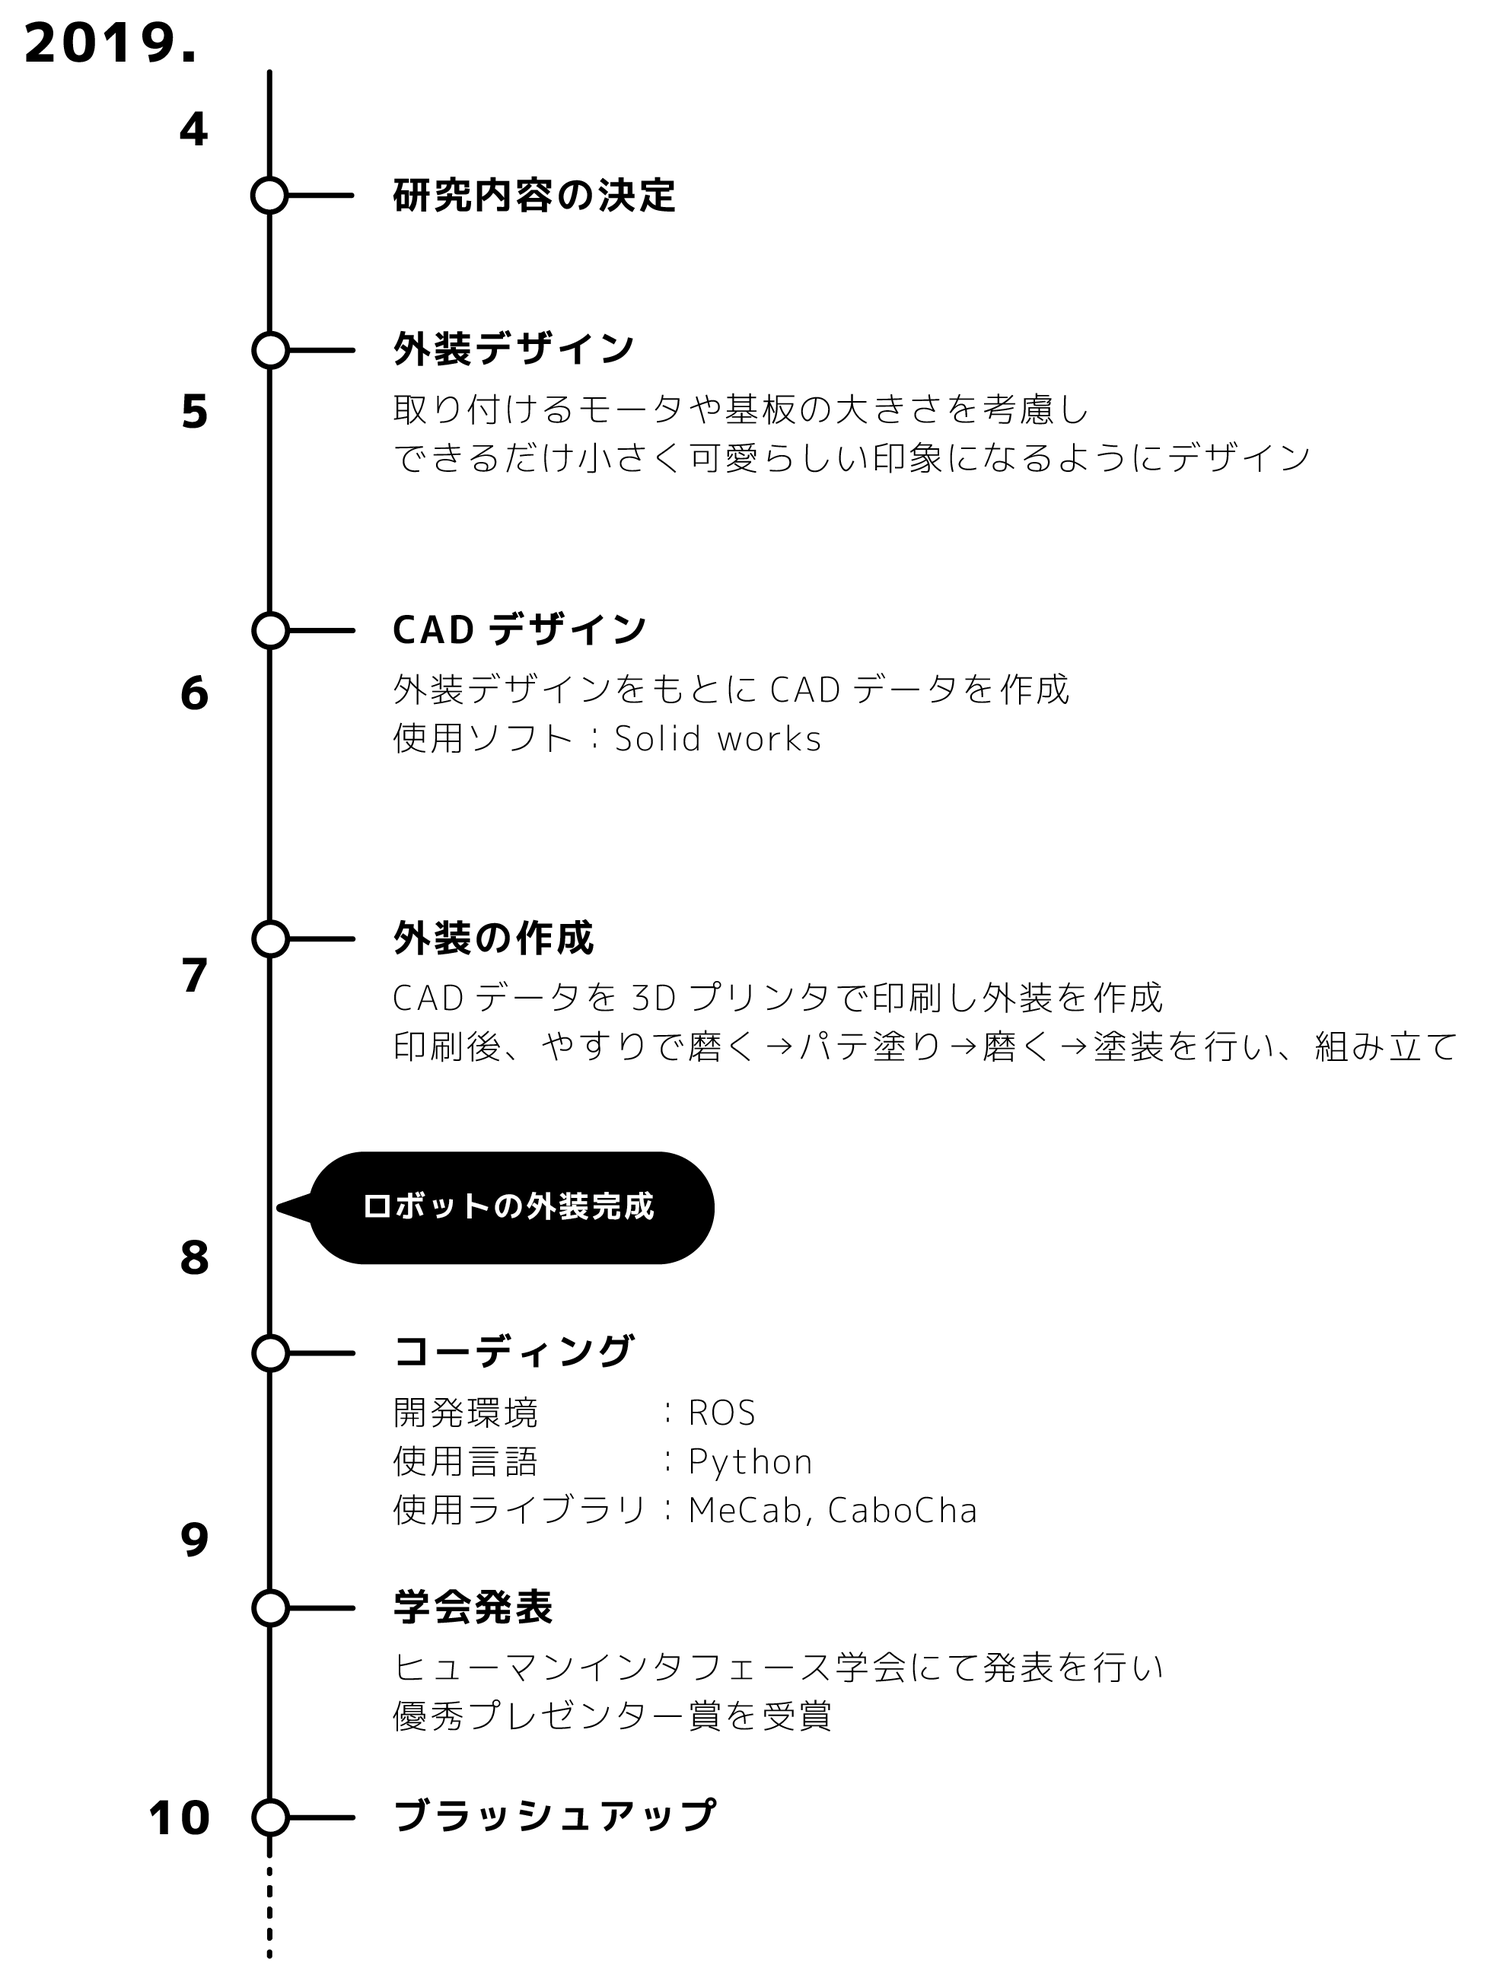
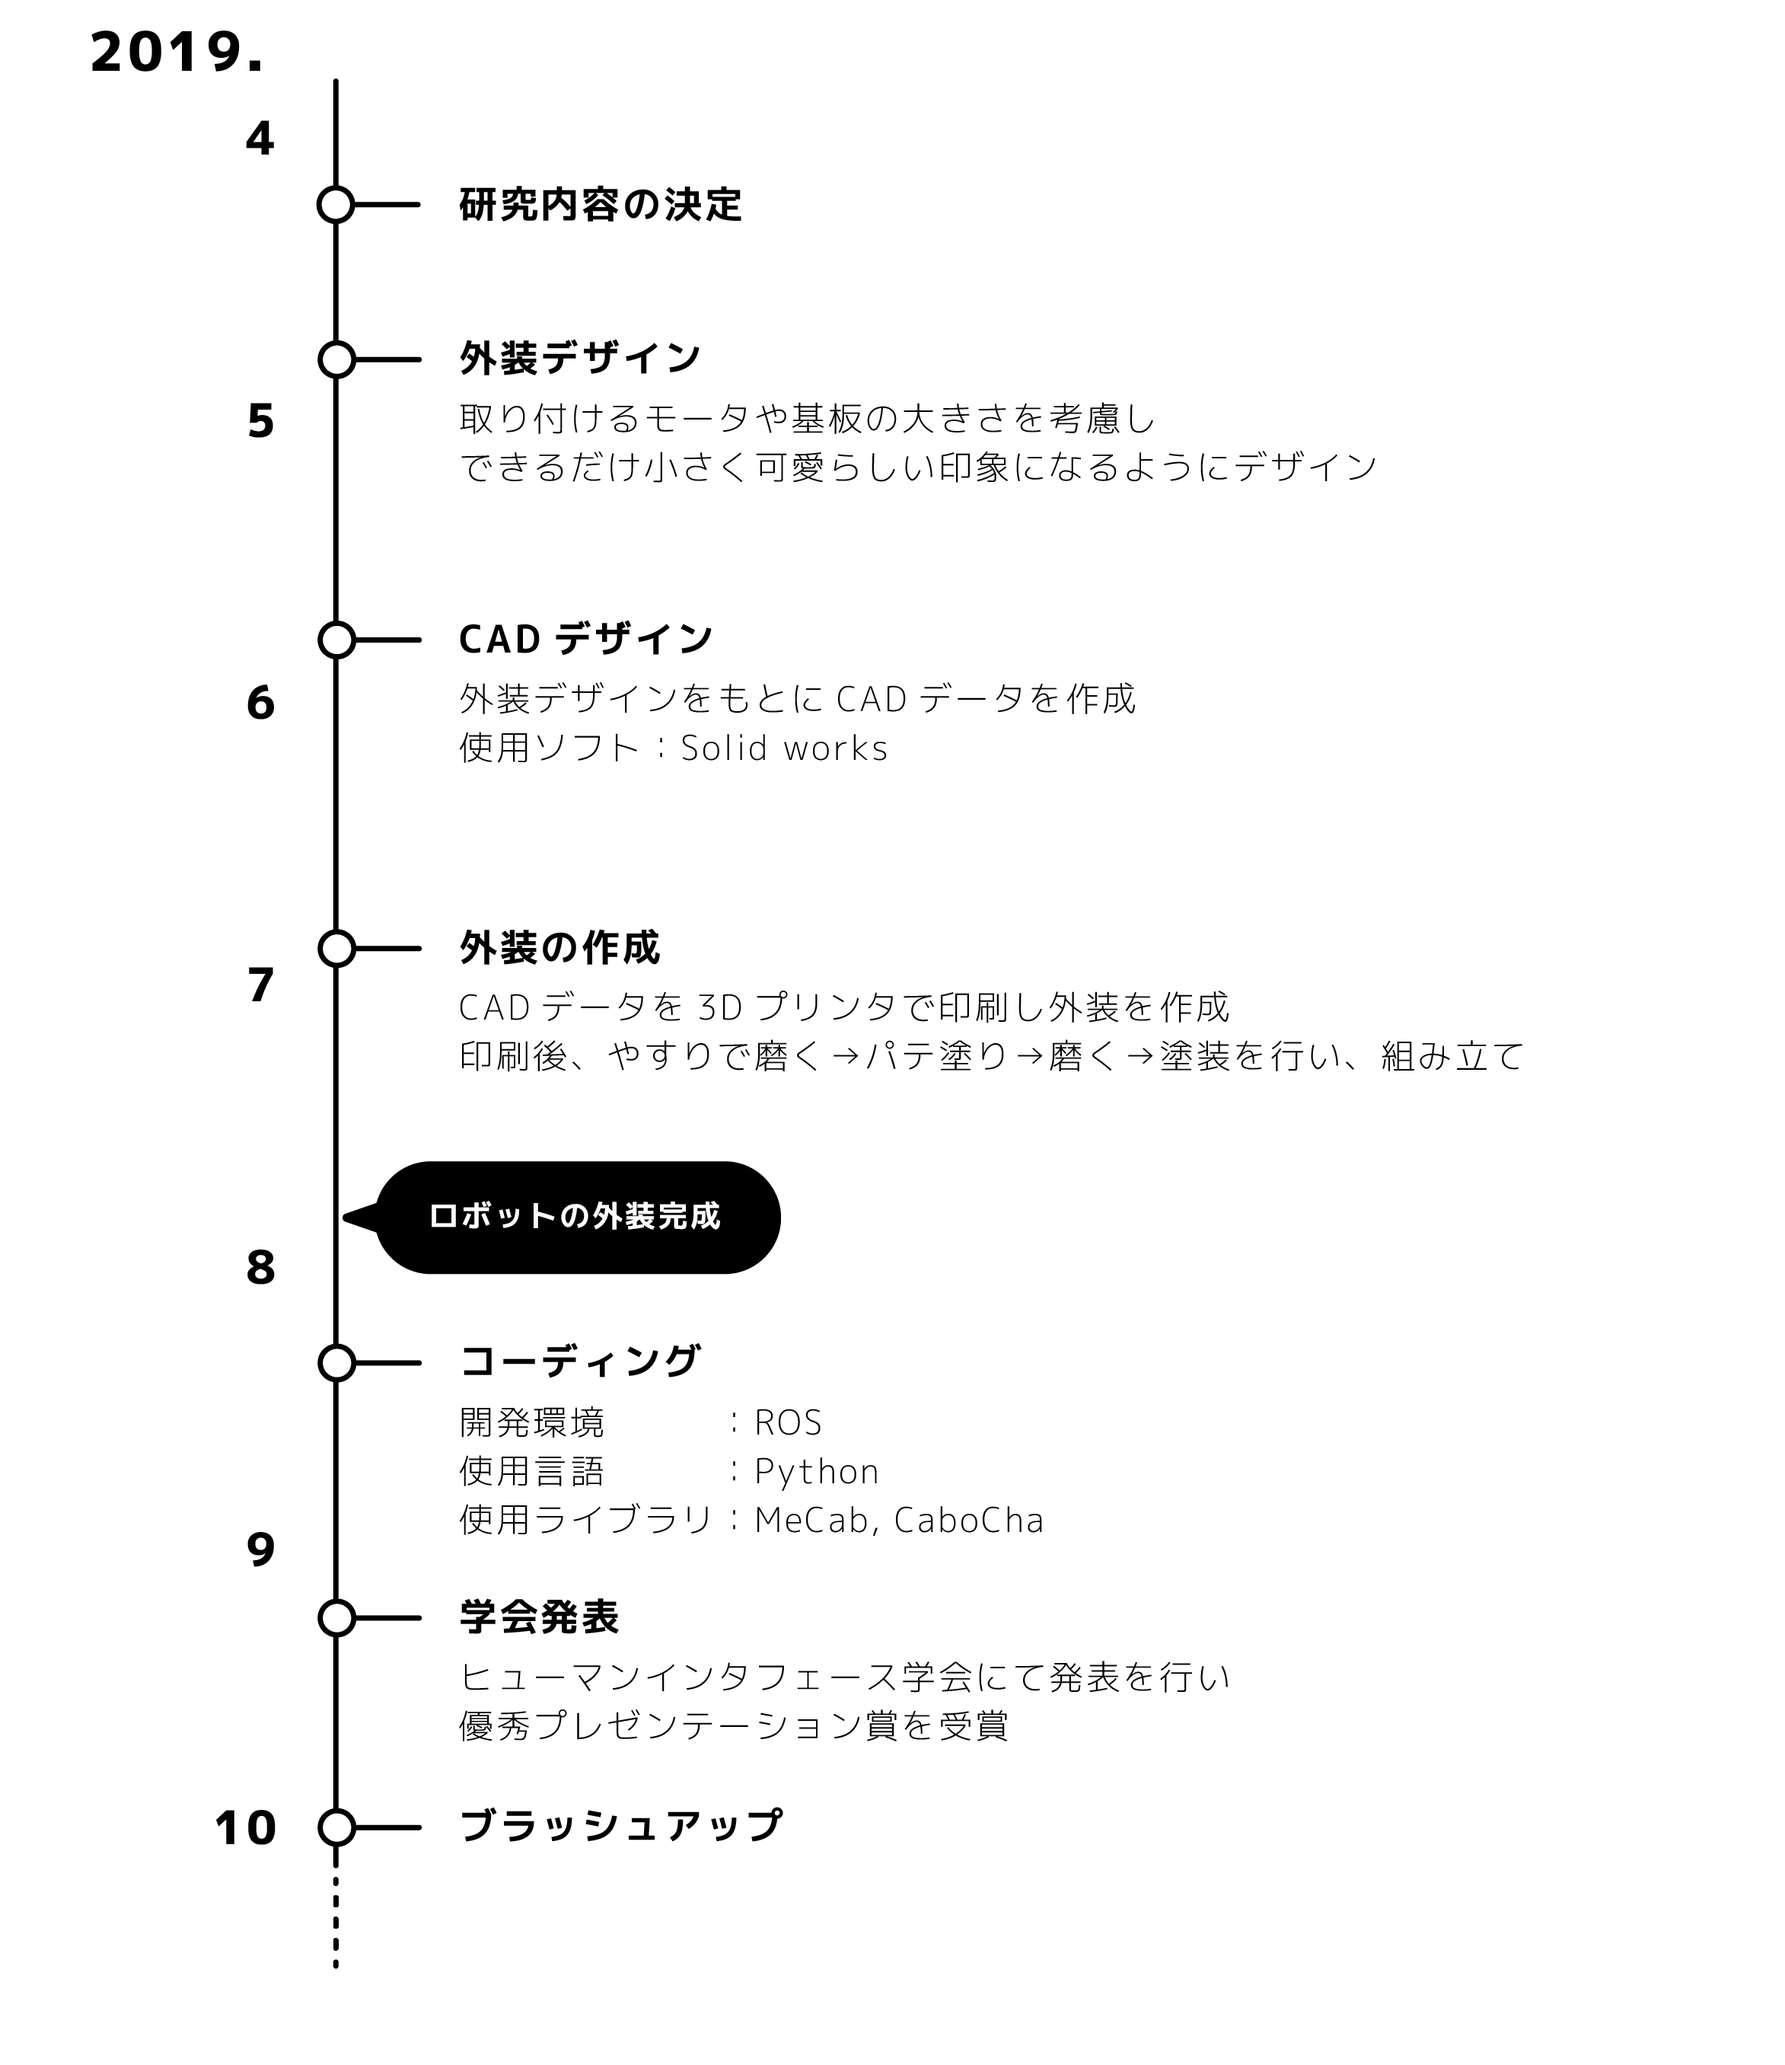
mayumisan

diff --git a/design.html b/design.html
@@ -189,9 +189,9 @@
             <p class="center shippori design_font_title_e">Event’s flyer design<br><br></p>
             <img class="center" src="./image/design/flyer/robotics-f.png" alt="..." width="100%">
 
-            <p class="shippori d_s_tex" style="font-size:9pt;"><br>バイト先であるメイカーズラボとよはしでのイベントのチラシをデザインしました。<br>
+            <p class="shippori d_s_tex" style="font-size:9pt;"><br>アルバイト先であるメイカーズラボとよはしでのイベントのチラシをデザインしました。<br>
               本施設ではレーザー加工機や3Dプリンタを一般の方向けに貸し出しを行なっており、<br>ものづくり拠点として利用されています。<br>
-              バイト内容は施設に設備されている機材の使い方を利用者に説明したり、<br>様々なものづくりイベントの企画・運営をすることです。
+              アルバイト内容は施設に設備されている機材の使い方を利用者に説明したり、<br>様々なものづくりイベントの企画・運営をすることです。
               <br><br>
               <!-- <font class="regular">( A4 )</font></p> -->
           </div>

diff --git a/study.html b/study.html
@@ -236,7 +236,7 @@
 
         <div class="row">
           <div class="col-md-3"></div>
-          <div class="col-md-6 pb-2"><img class="center" src="./image/study/schedule.png" alt="..." width="70%"></div>
+          <div class="col-md-6 pb-2"><img class="center" src="./image/study/schedule.png" alt="..." width="80%"></div>
           <div class="col-md-3"></div>
 
       </section>
